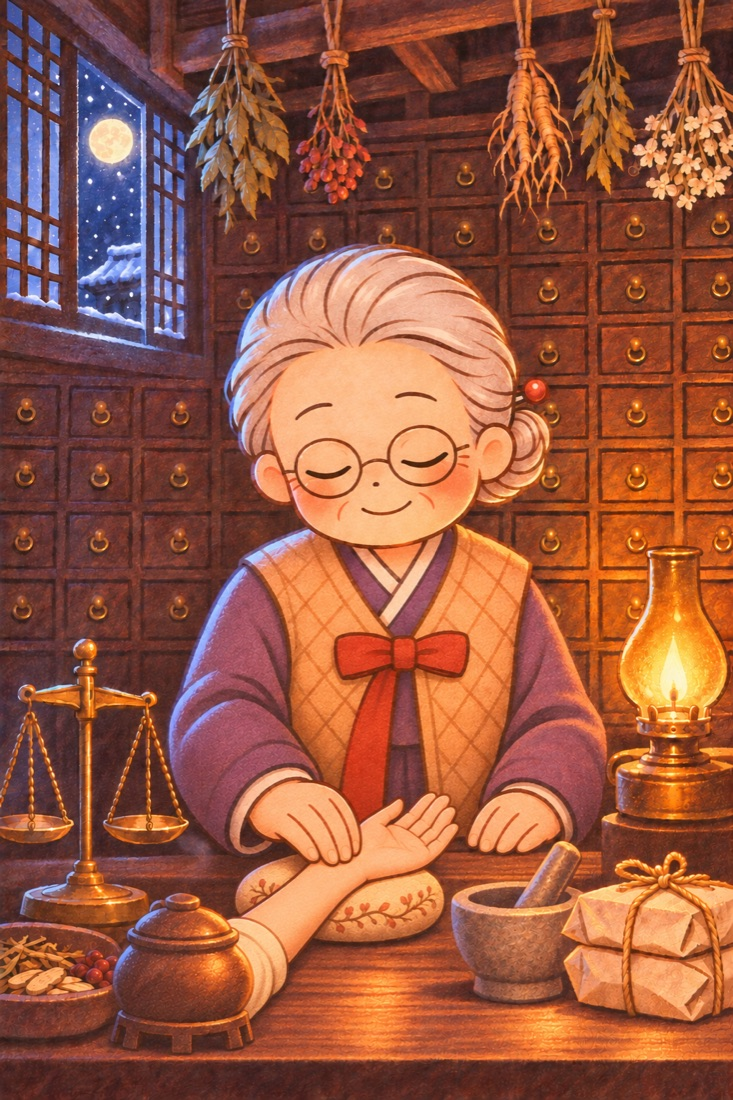
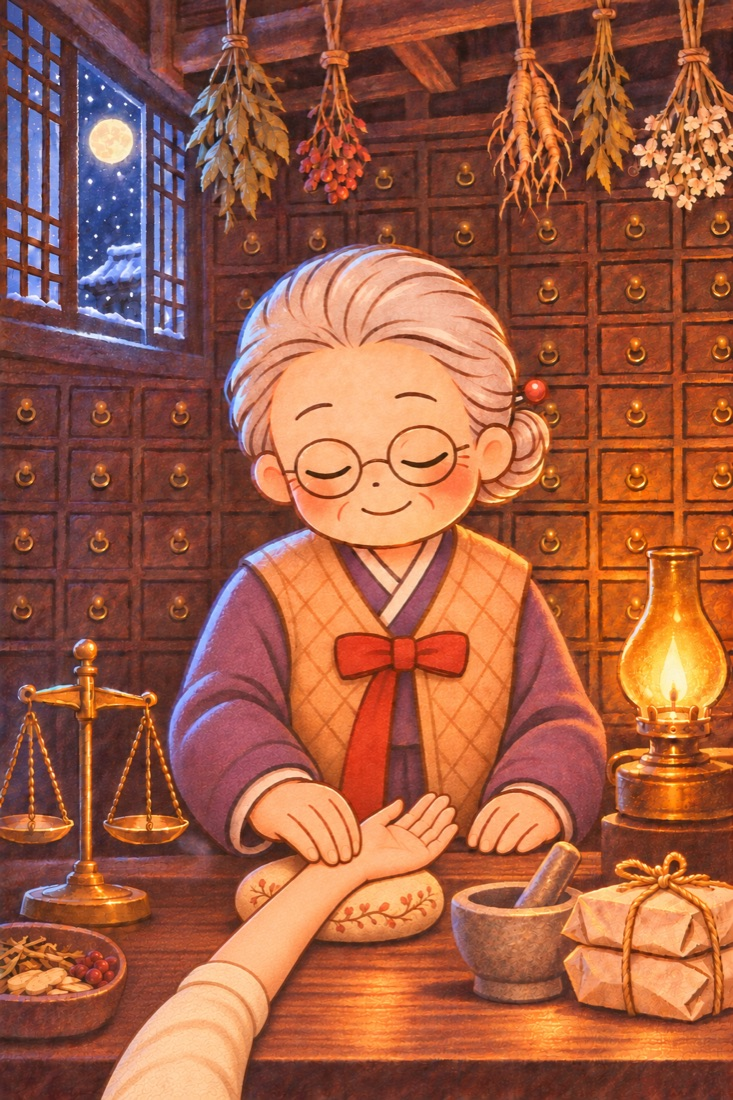
S6 팔 앞으로·항아리 뺌

Changed region(s): [[0.03, 0.8036, 0.4502, 1.0], [0.1501, 0.7418, 0.1801, 0.7727], [0.0, 0.8964, 0.03, 0.9273]]

diff --git a/preview/yakbang-cuts.html b/preview/yakbang-cuts.html
@@ -1,1 +1,1 @@
-<!doctype html><html lang="ko"><head><meta charset="utf-8"><meta name="viewport" content="width=device-width,initial-scale=1"><meta name="robots" content="noindex,nofollow"><title>할미약방 그림 41장</title><style>body{margin:0;background:#1d1712;color:#eee;font-family:-apple-system,sans-serif}main{max-width:480px;margin:0 auto;padding:16px}h1{font-size:20px}figure{margin:0 0 24px}img{width:100%;display:block;border-radius:10px}figcaption{font-size:12px;color:#bba;margin-top:6px}b{color:#f3c98b}</style></head><body><main><h1>할미약방 그림 41장 (2차 점검)</h1><figure><img src="../img/y/S1.jpg?v=4" loading="lazy"><figcaption><b>S1</b> Exterior at night: the end of a narrow snowy old alley, a small tradit…</figcaption></figure><figure><img src="../img/y/S2a.jpg?v=4" loading="lazy"><figcaption><b>S2a</b> Inside the yakbang seen from the doorway: the sliding door has just op…</figcaption></figure><figure><img src="../img/y/S2b.jpg?v=4" loading="lazy"><figcaption><b>S2b</b> Close-up: the grandmother adjusts her round glasses with one hand and …</figcaption></figure><figure><img src="../img/y/S3.jpg?v=4" loading="lazy"><figcaption><b>S3</b> At the counter: the grandmother slides a steaming cup of tea and a sma…</figcaption></figure><figure><img src="../img/y/S4.jpg?v=4" loading="lazy"><figcaption><b>S4</b> The grandmother sits behind the counter holding a thin brush over an o…</figcaption></figure><figure><img src="../img/y/S5.jpg?v=4" loading="lazy"><figcaption><b>S5</b> The grandmother rests her chin lightly on her folded hands on the coun…</figcaption></figure><figure><img src="../img/y/S6.jpg?v=4" loading="lazy"><figcaption><b>S6</b> Close-up from slightly above: on the wooden counter a small cloth puls…</figcaption></figure><figure><img src="../img/y/S8.jpg?v=4" loading="lazy"><figcaption><b>S8</b> No people. The yakbang counter at night: a folded hanji prescription e…</figcaption></figure><figure><img src="../img/y/R1a.jpg?v=4" loading="lazy"><figcaption><b>R1a</b> The grandmother holds up a small unfolded paper slip with both hands a…</figcaption></figure><figure><img src="../img/y/R1b.jpg?v=4" loading="lazy"><figcaption><b>R1b</b> Top-down straight view of a small blank white hanji slip lying flat in…</figcaption></figure><figure><img src="../img/y/R2a.jpg?v=4" loading="lazy"><figcaption><b>R2a</b> The grandmother opens a thick old thread-bound ledger book on the coun…</figcaption></figure><figure><img src="../img/y/R2b.jpg?v=4" loading="lazy"><figcaption><b>R2b</b> Top-down view of a thick old thread-bound book lying open flat on the …</figcaption></figure><figure><img src="../img/y/R3a.jpg?v=4" loading="lazy"><figcaption><b>R3a</b> Front view on the counter: an old brass balance scale with two empty r…</figcaption></figure><figure><img src="../img/y/R3b.jpg?v=4" loading="lazy"><figcaption><b>R3b</b> The grandmother looks at a brass balance scale on the counter that is …</figcaption></figure><figure><img src="../img/y/R4.jpg?v=4" loading="lazy"><figcaption><b>R4</b> The grandmother turns back an earlier page of the old ledger book, eye…</figcaption></figure><figure><img src="../img/y/R5a.jpg?v=4" loading="lazy"><figcaption><b>R5a</b> The grandmother pushes a stone mortar-and-roller (traditional boat-sha…</figcaption></figure><figure><img src="../img/y/R5b.jpg?v=4" loading="lazy"><figcaption><b>R5b</b> Top-down view of a boat-shaped stone herb grinder (yagyeon) with a rou…</figcaption></figure><figure><img src="../img/y/R5c.jpg?v=4" loading="lazy"><figcaption><b>R5c</b> Close-up of the grandmother looking down at something on the counter, …</figcaption></figure><figure><img src="../img/y/R6a.jpg?v=4" loading="lazy"><figcaption><b>R6a</b> Close-up on the counter: a red silk money pouch has fallen open and ol…</figcaption></figure><figure><img src="../img/y/R6b.jpg?v=4" loading="lazy"><figcaption><b>R6b</b> The grandmother ties the red money pouch tightly with its string and p…</figcaption></figure><figure><img src="../img/y/R7a.jpg?v=4" loading="lazy"><figcaption><b>R7a</b> The grandmother stands before the big wall of small medicine drawers a…</figcaption></figure><figure><img src="../img/y/R7b.jpg?v=4" loading="lazy"><figcaption><b>R7b</b> Straight-on view of a section of an old wooden medicine drawer cabinet…</figcaption></figure><figure><img src="../img/y/R8a.jpg?v=4" loading="lazy"><figcaption><b>R8a</b> Close-up on the counter: a pair of small carved wooden mandarin duck f…</figcaption></figure><figure><img src="../img/y/R8b.jpg?v=4" loading="lazy"><figcaption><b>R8b</b> The grandmother holds up a small blank paper calendar page with one sq…</figcaption></figure><figure><img src="../img/y/R9a.jpg?v=4" loading="lazy"><figcaption><b>R9a</b> The grandmother lights a candle on the counter with a long match, the …</figcaption></figure><figure><img src="../img/y/R9b.jpg?v=4" loading="lazy"><figcaption><b>R9b</b> An old paper scroll unrolled on the counter showing a simple tradition…</figcaption></figure><figure><img src="../img/y/R9c.jpg?v=4" loading="lazy"><figcaption><b>R9c</b> The grandmother pours warm herbal tea from a clay pot into a cup and s…</figcaption></figure><figure><img src="../img/y/R10a.jpg?v=4" loading="lazy"><figcaption><b>R10a</b> The grandmother stands at the open door of the yakbang holding a paper…</figcaption></figure><figure><img src="../img/y/R10b.jpg?v=4" loading="lazy"><figcaption><b>R10b</b> Outside at night: the snowy alley in front of the yakbang splits into …</figcaption></figure><figure><img src="../img/y/R10c.jpg?v=4" loading="lazy"><figcaption><b>R10c</b> A warm illustrated portrait in the same style (not realistic) of a kin…</figcaption></figure><figure><img src="../img/y/R11.jpg?v=4" loading="lazy"><figcaption><b>R11</b> The grandmother picks up the small paper slip again and looks at the v…</figcaption></figure><figure><img src="../img/y/R12.jpg?v=4" loading="lazy"><figcaption><b>R12</b> On the counter: three square hanji herb packets; one is untied and ope…</figcaption></figure><figure><img src="../img/y/R13a.jpg?v=4" loading="lazy"><figcaption><b>R13a</b> A hanji wall calendar page with a blank grid (no numbers) and several …</figcaption></figure><figure><img src="../img/y/R13b.jpg?v=4" loading="lazy"><figcaption><b>R13b</b> A long hanji paper checklist with blank lines and small red brush tick…</figcaption></figure><figure><img src="../img/y/R13c.jpg?v=4" loading="lazy"><figcaption><b>R13c</b> An old wooden radio and a small steaming tea cup on the counter by the…</figcaption></figure><figure><img src="../img/y/R13d.jpg?v=4" loading="lazy"><figcaption><b>R13d</b> Six small wooden talisman tags hanging on red strings from a beam in t…</figcaption></figure><figure><img src="../img/y/R15a.jpg?v=4" loading="lazy"><figcaption><b>R15a</b> A wooden wall of the yakbang with five old paper wall calendars hangin…</figcaption></figure><figure><img src="../img/y/R15b.jpg?v=4" loading="lazy"><figcaption><b>R15b</b> The grandmother flips back through an old wall calendar with one hand,…</figcaption></figure><figure><img src="../img/y/R15c.jpg?v=4" loading="lazy"><figcaption><b>R15c</b> The grandmother taps a fresh blank new calendar on the counter with he…</figcaption></figure><figure><img src="../img/y/R16.jpg?v=4" loading="lazy"><figcaption><b>R16</b> Close-up of the grandmother's hands holding out a bundle of hanji herb…</figcaption></figure><figure><img src="../img/y/P2.jpg?v=4" loading="lazy"><figcaption><b>P2</b> Beside a small clay brazier with glowing charcoal and a steaming medic…</figcaption></figure></main></body></html>
+<!doctype html><html lang="ko"><head><meta charset="utf-8"><meta name="viewport" content="width=device-width,initial-scale=1"><meta name="robots" content="noindex,nofollow"><title>할미약방 그림 41장</title><style>body{margin:0;background:#1d1712;color:#eee;font-family:-apple-system,sans-serif}main{max-width:480px;margin:0 auto;padding:16px}h1{font-size:20px}figure{margin:0 0 24px}img{width:100%;display:block;border-radius:10px}figcaption{font-size:12px;color:#bba;margin-top:6px}b{color:#f3c98b}</style></head><body><main><h1>할미약방 그림 41장 (2차 점검)</h1><figure><img src="../img/y/S1.jpg?v=4" loading="lazy"><figcaption><b>S1</b> Exterior at night: the end of a narrow snowy old alley, a small tradit…</figcaption></figure><figure><img src="../img/y/S2a.jpg?v=4" loading="lazy"><figcaption><b>S2a</b> Inside the yakbang seen from the doorway: the sliding door has just op…</figcaption></figure><figure><img src="../img/y/S2b.jpg?v=4" loading="lazy"><figcaption><b>S2b</b> Close-up: the grandmother adjusts her round glasses with one hand and …</figcaption></figure><figure><img src="../img/y/S3.jpg?v=4" loading="lazy"><figcaption><b>S3</b> At the counter: the grandmother slides a steaming cup of tea and a sma…</figcaption></figure><figure><img src="../img/y/S4.jpg?v=4" loading="lazy"><figcaption><b>S4</b> The grandmother sits behind the counter holding a thin brush over an o…</figcaption></figure><figure><img src="../img/y/S5.jpg?v=4" loading="lazy"><figcaption><b>S5</b> The grandmother rests her chin lightly on her folded hands on the coun…</figcaption></figure><figure><img src="../img/y/S6.jpg?v=5" loading="lazy"><figcaption><b>S6</b> Close-up from slightly above: on the wooden counter a small cloth puls…</figcaption></figure><figure><img src="../img/y/S8.jpg?v=4" loading="lazy"><figcaption><b>S8</b> No people. The yakbang counter at night: a folded hanji prescription e…</figcaption></figure><figure><img src="../img/y/R1a.jpg?v=4" loading="lazy"><figcaption><b>R1a</b> The grandmother holds up a small unfolded paper slip with both hands a…</figcaption></figure><figure><img src="../img/y/R1b.jpg?v=4" loading="lazy"><figcaption><b>R1b</b> Top-down straight view of a small blank white hanji slip lying flat in…</figcaption></figure><figure><img src="../img/y/R2a.jpg?v=4" loading="lazy"><figcaption><b>R2a</b> The grandmother opens a thick old thread-bound ledger book on the coun…</figcaption></figure><figure><img src="../img/y/R2b.jpg?v=4" loading="lazy"><figcaption><b>R2b</b> Top-down view of a thick old thread-bound book lying open flat on the …</figcaption></figure><figure><img src="../img/y/R3a.jpg?v=4" loading="lazy"><figcaption><b>R3a</b> Front view on the counter: an old brass balance scale with two empty r…</figcaption></figure><figure><img src="../img/y/R3b.jpg?v=4" loading="lazy"><figcaption><b>R3b</b> The grandmother looks at a brass balance scale on the counter that is …</figcaption></figure><figure><img src="../img/y/R4.jpg?v=4" loading="lazy"><figcaption><b>R4</b> The grandmother turns back an earlier page of the old ledger book, eye…</figcaption></figure><figure><img src="../img/y/R5a.jpg?v=4" loading="lazy"><figcaption><b>R5a</b> The grandmother pushes a stone mortar-and-roller (traditional boat-sha…</figcaption></figure><figure><img src="../img/y/R5b.jpg?v=4" loading="lazy"><figcaption><b>R5b</b> Top-down view of a boat-shaped stone herb grinder (yagyeon) with a rou…</figcaption></figure><figure><img src="../img/y/R5c.jpg?v=4" loading="lazy"><figcaption><b>R5c</b> Close-up of the grandmother looking down at something on the counter, …</figcaption></figure><figure><img src="../img/y/R6a.jpg?v=4" loading="lazy"><figcaption><b>R6a</b> Close-up on the counter: a red silk money pouch has fallen open and ol…</figcaption></figure><figure><img src="../img/y/R6b.jpg?v=4" loading="lazy"><figcaption><b>R6b</b> The grandmother ties the red money pouch tightly with its string and p…</figcaption></figure><figure><img src="../img/y/R7a.jpg?v=4" loading="lazy"><figcaption><b>R7a</b> The grandmother stands before the big wall of small medicine drawers a…</figcaption></figure><figure><img src="../img/y/R7b.jpg?v=4" loading="lazy"><figcaption><b>R7b</b> Straight-on view of a section of an old wooden medicine drawer cabinet…</figcaption></figure><figure><img src="../img/y/R8a.jpg?v=4" loading="lazy"><figcaption><b>R8a</b> Close-up on the counter: a pair of small carved wooden mandarin duck f…</figcaption></figure><figure><img src="../img/y/R8b.jpg?v=4" loading="lazy"><figcaption><b>R8b</b> The grandmother holds up a small blank paper calendar page with one sq…</figcaption></figure><figure><img src="../img/y/R9a.jpg?v=4" loading="lazy"><figcaption><b>R9a</b> The grandmother lights a candle on the counter with a long match, the …</figcaption></figure><figure><img src="../img/y/R9b.jpg?v=4" loading="lazy"><figcaption><b>R9b</b> An old paper scroll unrolled on the counter showing a simple tradition…</figcaption></figure><figure><img src="../img/y/R9c.jpg?v=4" loading="lazy"><figcaption><b>R9c</b> The grandmother pours warm herbal tea from a clay pot into a cup and s…</figcaption></figure><figure><img src="../img/y/R10a.jpg?v=4" loading="lazy"><figcaption><b>R10a</b> The grandmother stands at the open door of the yakbang holding a paper…</figcaption></figure><figure><img src="../img/y/R10b.jpg?v=4" loading="lazy"><figcaption><b>R10b</b> Outside at night: the snowy alley in front of the yakbang splits into …</figcaption></figure><figure><img src="../img/y/R10c.jpg?v=4" loading="lazy"><figcaption><b>R10c</b> A warm illustrated portrait in the same style (not realistic) of a kin…</figcaption></figure><figure><img src="../img/y/R11.jpg?v=4" loading="lazy"><figcaption><b>R11</b> The grandmother picks up the small paper slip again and looks at the v…</figcaption></figure><figure><img src="../img/y/R12.jpg?v=4" loading="lazy"><figcaption><b>R12</b> On the counter: three square hanji herb packets; one is untied and ope…</figcaption></figure><figure><img src="../img/y/R13a.jpg?v=4" loading="lazy"><figcaption><b>R13a</b> A hanji wall calendar page with a blank grid (no numbers) and several …</figcaption></figure><figure><img src="../img/y/R13b.jpg?v=4" loading="lazy"><figcaption><b>R13b</b> A long hanji paper checklist with blank lines and small red brush tick…</figcaption></figure><figure><img src="../img/y/R13c.jpg?v=4" loading="lazy"><figcaption><b>R13c</b> An old wooden radio and a small steaming tea cup on the counter by the…</figcaption></figure><figure><img src="../img/y/R13d.jpg?v=4" loading="lazy"><figcaption><b>R13d</b> Six small wooden talisman tags hanging on red strings from a beam in t…</figcaption></figure><figure><img src="../img/y/R15a.jpg?v=4" loading="lazy"><figcaption><b>R15a</b> A wooden wall of the yakbang with five old paper wall calendars hangin…</figcaption></figure><figure><img src="../img/y/R15b.jpg?v=4" loading="lazy"><figcaption><b>R15b</b> The grandmother flips back through an old wall calendar with one hand,…</figcaption></figure><figure><img src="../img/y/R15c.jpg?v=4" loading="lazy"><figcaption><b>R15c</b> The grandmother taps a fresh blank new calendar on the counter with he…</figcaption></figure><figure><img src="../img/y/R16.jpg?v=4" loading="lazy"><figcaption><b>R16</b> Close-up of the grandmother's hands holding out a bundle of hanji herb…</figcaption></figure><figure><img src="../img/y/P2.jpg?v=4" loading="lazy"><figcaption><b>P2</b> Beside a small clay brazier with glowing charcoal and a steaming medic…</figcaption></figure></main></body></html>
